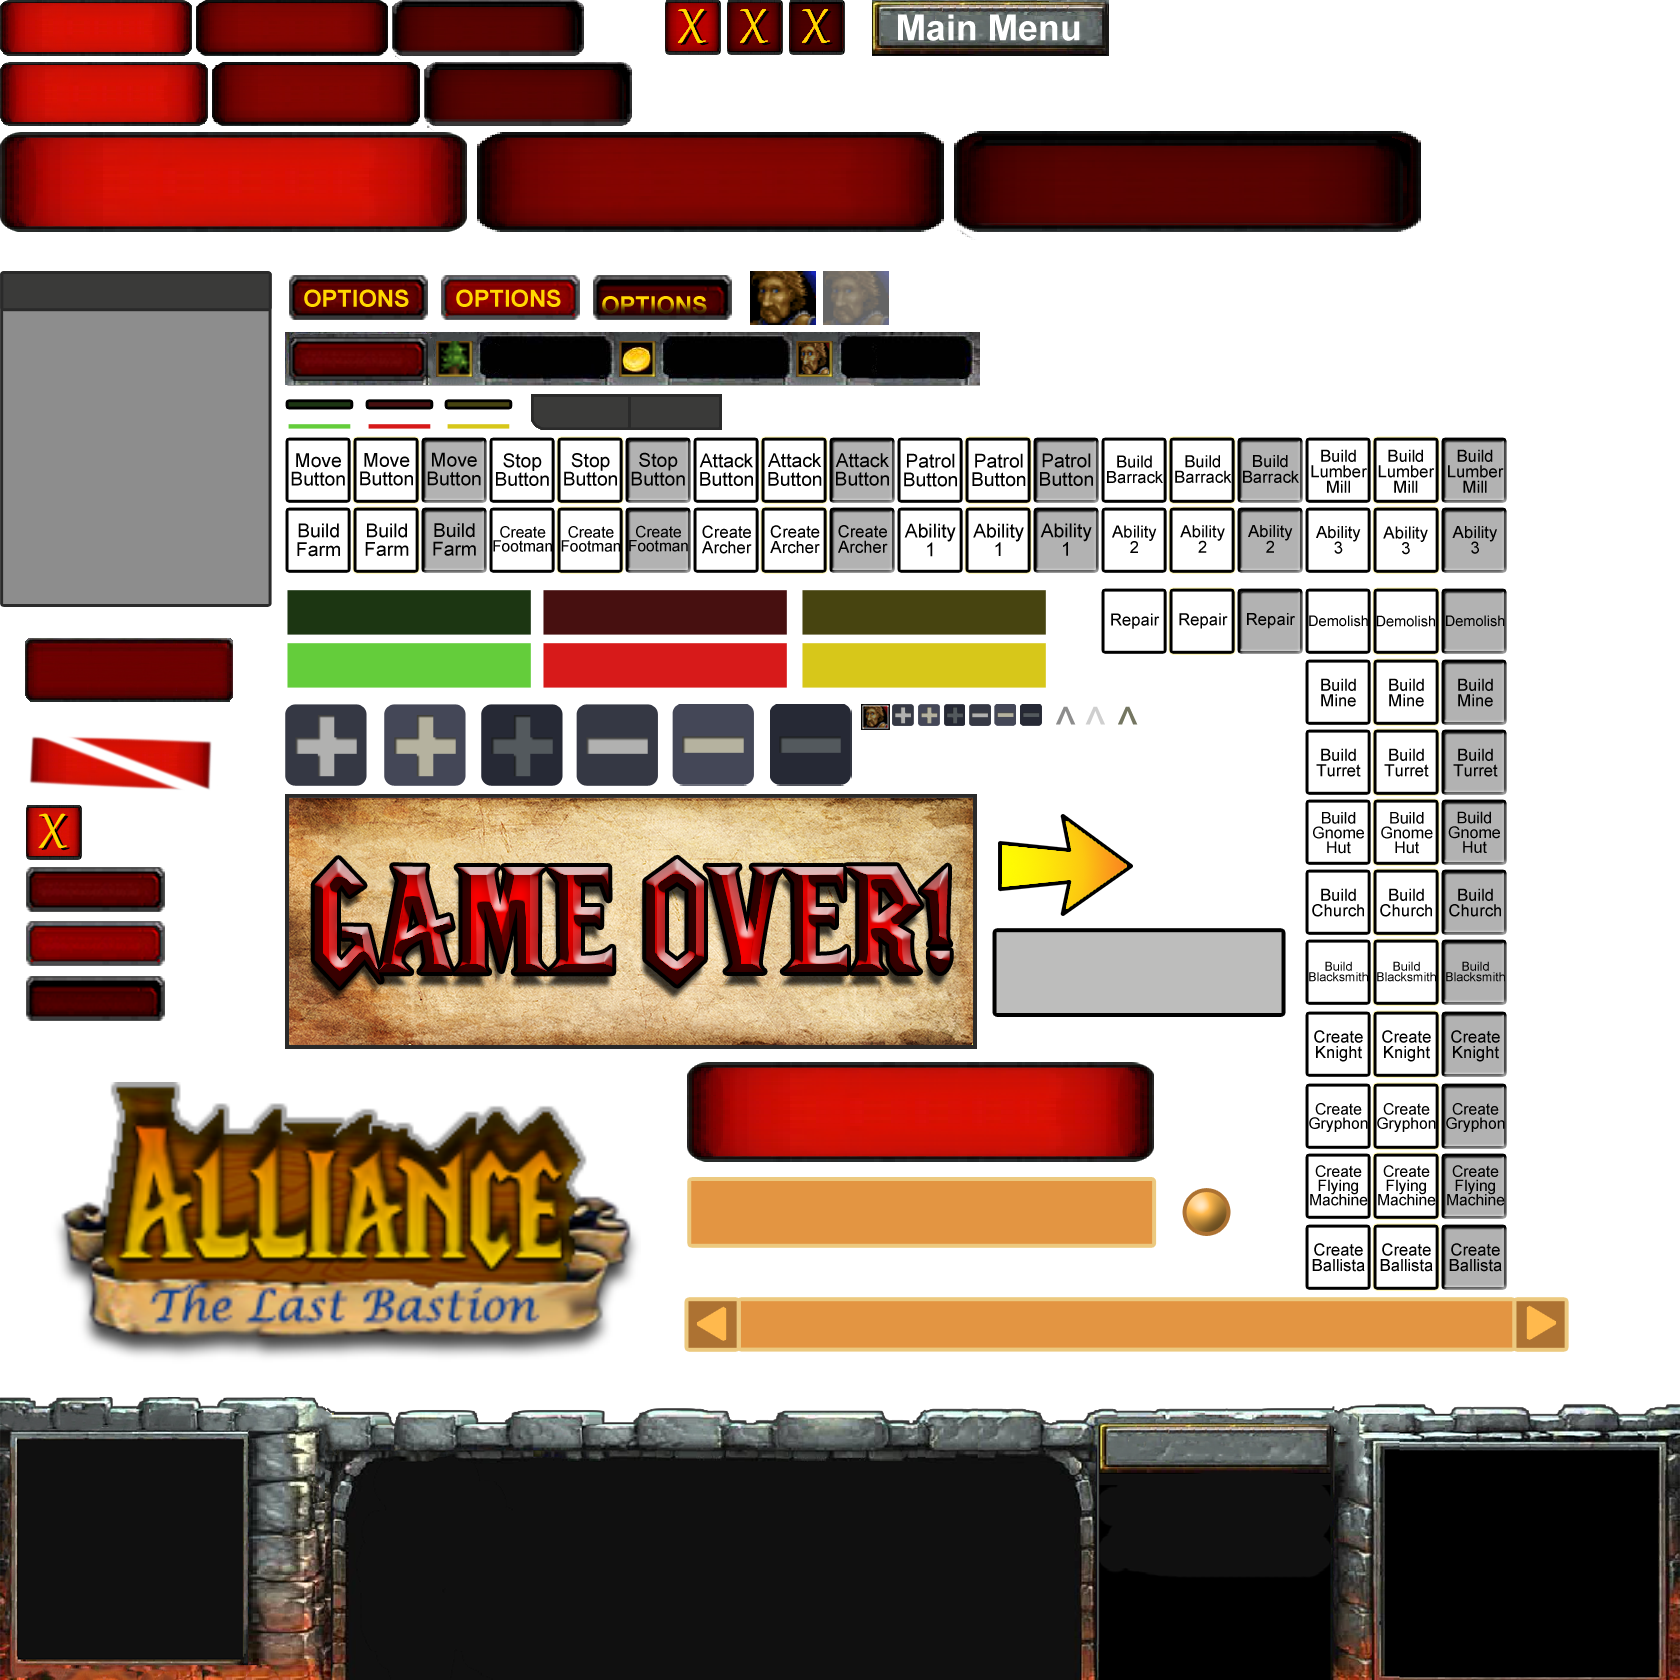
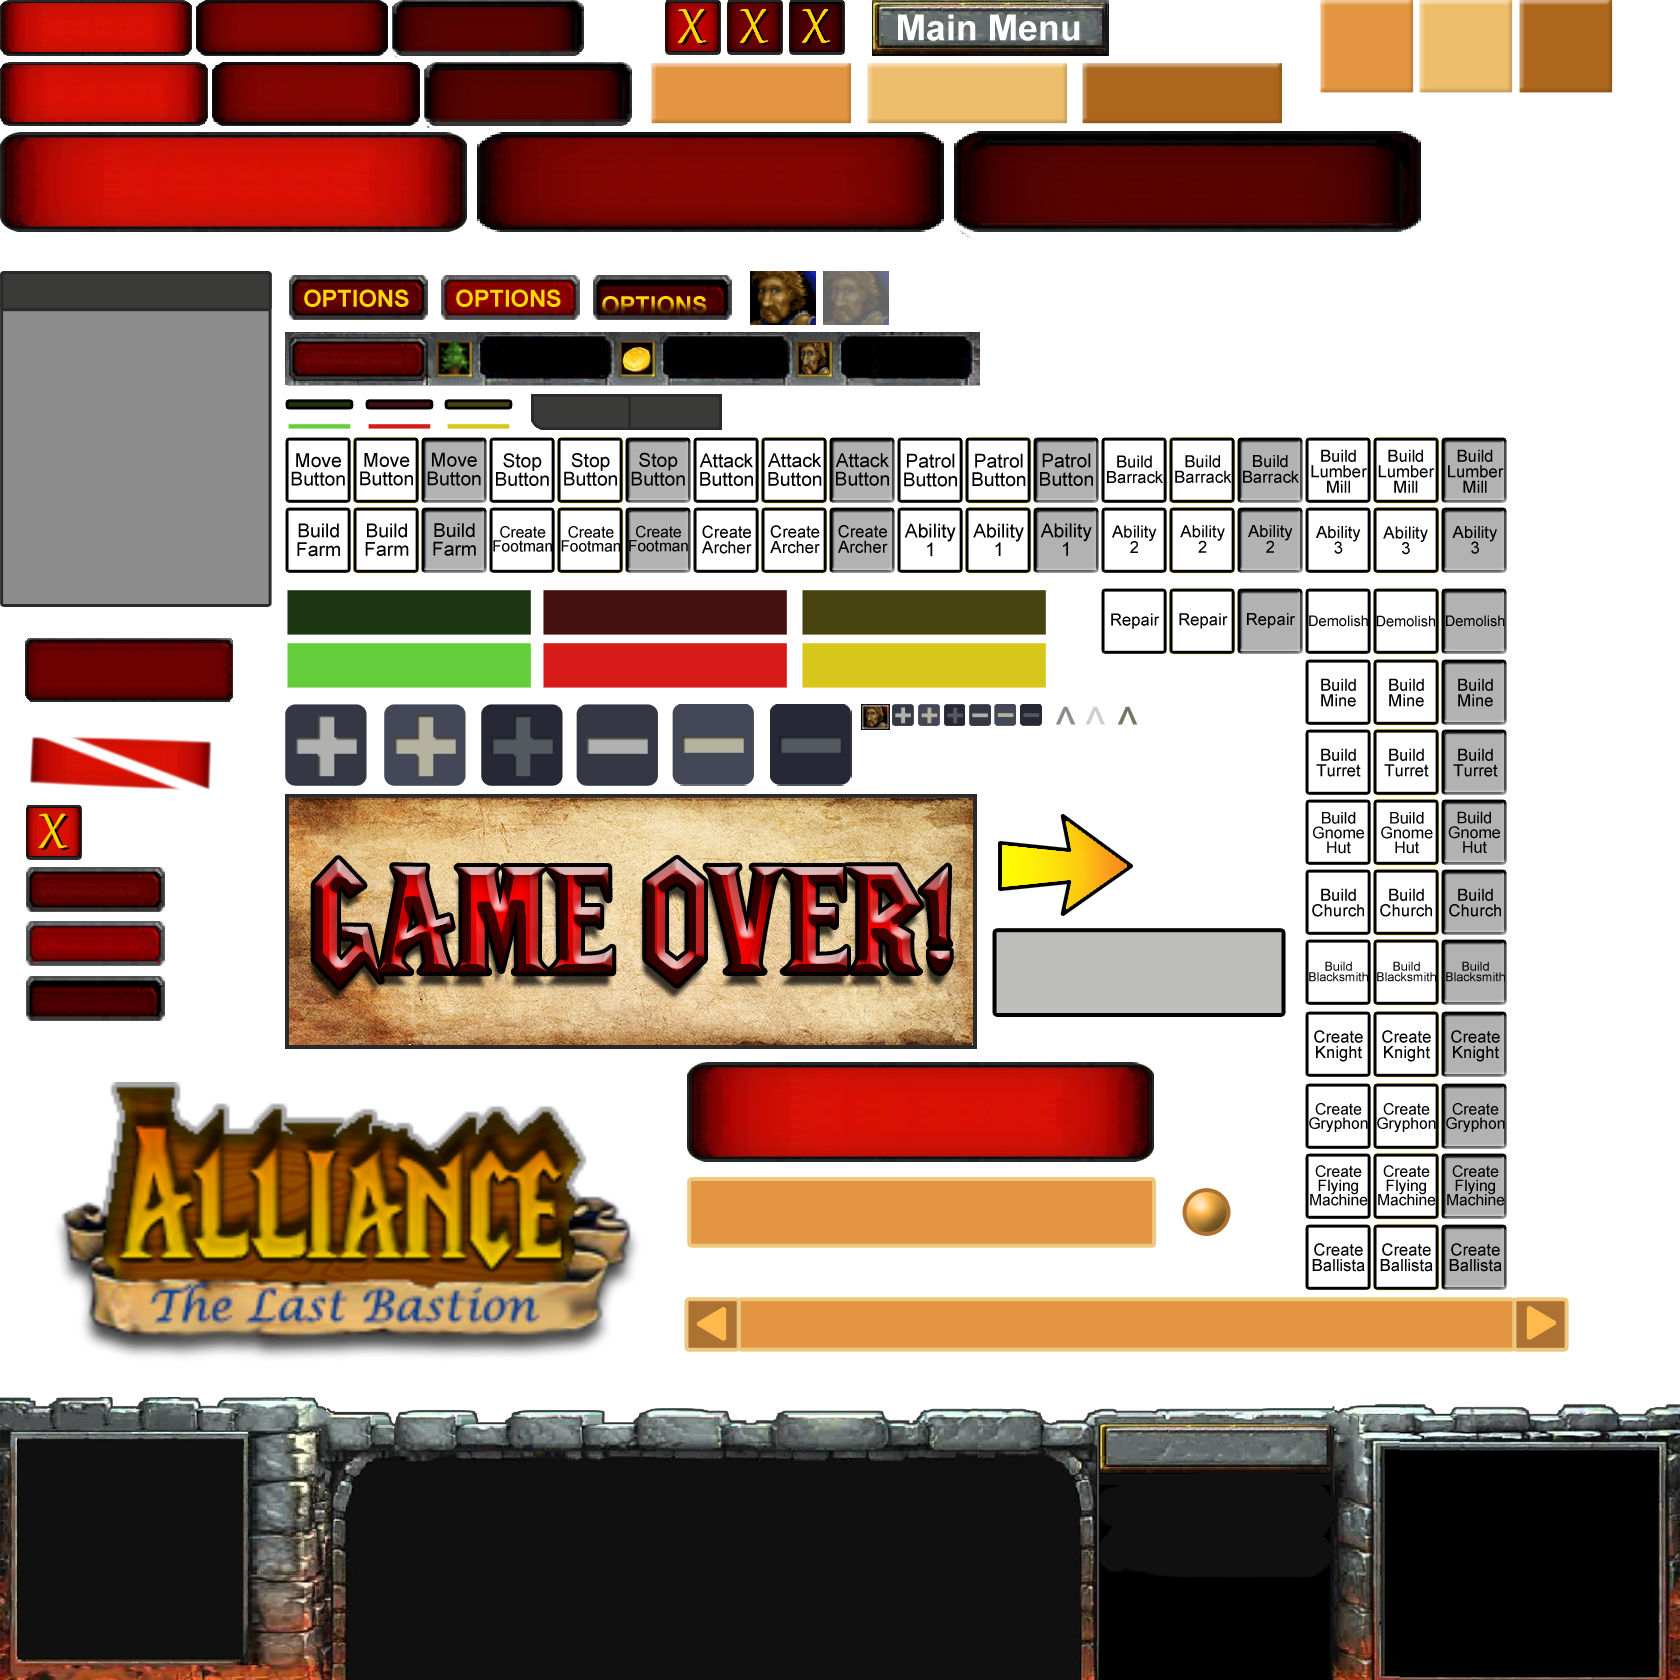
Implemented change controls menu (needs polishment)

Changed region(s): [[0.3714, 0.0, 0.9595, 0.0929]]

diff --git a/Motor2D/j1Gui.cpp b/Motor2D/j1Gui.cpp
@@ -647,6 +647,14 @@ Button* j1Gui::createButton(pugi::xml_node node, j1Module* callback, bool saveIn
 		ret->releaseAction = (actionType)node.attribute("release_action").as_int(0);
 		ret->hasReleaseAction = true;
 	}
+	pugi::xml_node hotkey = node.child("hotkey");
+	if (hotkey)
+	{
+		std::string letter = hotkey.attribute("key").as_string();
+		SDL_Scancode key = (SDL_Scancode)(*letter.c_str() - 61);
+		ret->setHotkey(key);
+		ret->displayHotkey(true, App->font->getFont(hotkey.attribute("font_id").as_int()), { 0,0,0,255 }, true);
+	}
 
 	if (saveIntoGUI)
 		Buttons.push_back(ret);
@@ -1115,5 +1123,34 @@ void j1Gui::moveElementToMouse(UI_element* element)
 			y = 0;
 		}
 		element->localPosition = { (int)(x/w_stretch), (int)(y/h_stretch) };
+	}
+}
+
+void j1Gui::assignActionButtonHotkey(uint id, SDL_Scancode newHotkey)
+{
+	if (id < inGameMenu->actionButtonsHotkeys.size())
+	{
+		inGameMenu->actionButtonsHotkeys[id] = newHotkey;
+		inGameMenu->updateActionButtons();
+
+		menu* Menu = App->uiscene->getMenu(CHANGE_HOTKEYS_MENU);
+		if (Menu != nullptr)
+		{
+			int counter = 0;
+			for (std::list<UI_element*>::iterator it_b = Menu->elements.begin(); it_b != Menu->elements.end(); it_b++)
+			{
+				if ((*it_b)->element_type == BUTTON && (*it_b)->clickAction >= 50 && (*it_b)->clickAction <= 58)
+				{				
+					if (counter == id)
+					{
+						Button* button = (Button*)(*it_b);
+						button->setHotkey(newHotkey);
+						button->displayHotkey(true, App->font->getFont(3), { 0,0,0,255 }, true);
+						break;
+					}
+					counter++;
+				}
+			}
+		}
 	}
 }

diff --git a/Motor2D/j1Input.cpp b/Motor2D/j1Input.cpp
@@ -3,6 +3,7 @@
 #include "j1App.h"
 #include "j1Input.h"
 #include "j1Window.h"
+#include "j1Gui.h"
 #include "SDL/include/SDL.h"
 
 #define MAX_KEYS 300
@@ -56,13 +57,14 @@ bool j1Input::PreUpdate()
 	BROFILER_CATEGORY("input_preupdate", Profiler::Color::BlanchedAlmond);
 	static SDL_Event event;
 	
+	wasKeyDown = SDL_SCANCODE_UNKNOWN;
 	const Uint8* keys = SDL_GetKeyboardState(NULL);
 
 	for(int i = 0; i < MAX_KEYS; ++i)
 	{
 		if(keys[i] == 1)
 		{
-			if(keyboard[i] == KEY_IDLE) keyboard[i] = KEY_DOWN;
+			if (keyboard[i] == KEY_IDLE) { keyboard[i] = KEY_DOWN; wasKeyDown = (SDL_Scancode)i; }
 			else						keyboard[i] = KEY_REPEAT;
 		}
 		else
@@ -134,6 +136,18 @@ bool j1Input::PreUpdate()
 	return true;
 }
 
+bool j1Input::Update(float dt)
+{
+	if (assignNewHotkey && wasKeyDown != SDL_SCANCODE_UNKNOWN)
+	{
+		App->gui->assignActionButtonHotkey(buttonId, wasKeyDown);
+
+		assignNewHotkey = false;
+	}
+
+	return true;
+}
+
 // Called before quitting
 bool j1Input::CleanUp()
 {
@@ -158,6 +172,27 @@ void j1Input::GetMouseMotion(int& x, int& y)
 {
 	x = mouse_motion_x;
 	y = mouse_motion_y;
+}
+
+void j1Input::readHotkey(uint buttonId)
+{
+	if (!assignNewHotkey)
+	{
+		this->buttonId = buttonId;
+		assignNewHotkey = true;
+	}
+	else
+		assignNewHotkey = false;
+}
+
+bool j1Input::isReadingHotkey() const
+{
+	return assignNewHotkey;
+}
+
+void j1Input::stopReadingHotkey()
+{
+	assignNewHotkey = false;
 }
 
 void j1Input::StartTextInput()

diff --git a/Motor2D/UI_Button.cpp b/Motor2D/UI_Button.cpp
@@ -39,39 +39,40 @@ void Button::BlitElement()
 	}
 }
 
-void Button::displayHotkey(bool display, _TTF_Font* font)
+void Button::displayHotkey(bool display, _TTF_Font* font, SDL_Color color, bool atCenter)
 {
 	displayingHotkey = display;
 
 	if (display = true && font != nullptr && Hotkey != 0)
 	{
 		if (hotkey_text != nullptr)
+		{
+			childs.clear();
 			RELEASE(hotkey_text);
+		}
 		
 		std::string text;
 		text = (char)(Hotkey + 61);
 
-		hotkey_text = new Text(text, 0, 0, font, { 255,0,0,255 }, nullptr);
-		iPoint position = { localPosition.x + section.w - hotkey_text->section.w / 2, localPosition.y + section.h - hotkey_text->section.h / 2 };
-		hotkey_text->localPosition = position;
+		hotkey_text = new Text(text, 0, 0, font, color, nullptr);
+		appendChild(hotkey_text, true);
+		if (!atCenter)
+			hotkey_text->localPosition = { section.w - hotkey_text->section.w / 2, section.h - hotkey_text->section.h / 2 };
 	}
 }
 
 void Button::setHotkey(SDL_Scancode hotkey)
 {
 	Hotkey = hotkey;
+	if (hotkey_text != nullptr)
+	{
+		std::string text;
+		text = (char)(Hotkey + 61);
+		hotkey_text->setText(text);
+	}
 }
 
 SDL_Scancode Button::getHotkey() const
 {
 	return Hotkey;
-}
-
-void Button::updatedPosition()
-{
-	if (hotkey_text != nullptr)
-	{
-		iPoint position = { localPosition.x + section.w - hotkey_text->section.w / 2, localPosition.y + section.h - hotkey_text->section.h / 2 };
-		hotkey_text->localPosition = position;
-	}
 }

diff --git a/Motor2D/UI_IngameMenu.cpp b/Motor2D/UI_IngameMenu.cpp
@@ -20,6 +20,16 @@ buttons_offset({buttons_offsetX, buttons_offsetY})
 	window = new Window(texture, x, y, section, callback);
 	workers_title = new Text("Workers:", 1480, 815, App->font->fonts.front(), { 0,0,0,255 }, nullptr);
 	workers = new Text("", 1495, 865, App->font->fonts.front(), { 0,0,0,255 }, nullptr);
+
+	actionButtonsHotkeys.push_back(DEFAULT_HOTKEY_1);
+	actionButtonsHotkeys.push_back(DEFAULT_HOTKEY_2);
+	actionButtonsHotkeys.push_back(DEFAULT_HOTKEY_3);
+	actionButtonsHotkeys.push_back(DEFAULT_HOTKEY_4);
+	actionButtonsHotkeys.push_back(DEFAULT_HOTKEY_5);
+	actionButtonsHotkeys.push_back(DEFAULT_HOTKEY_6);
+	actionButtonsHotkeys.push_back(DEFAULT_HOTKEY_7);
+	actionButtonsHotkeys.push_back(DEFAULT_HOTKEY_8);
+	actionButtonsHotkeys.push_back(DEFAULT_HOTKEY_9);
 }
 
 IngameMenu::~IngameMenu()
@@ -53,6 +63,7 @@ void IngameMenu::updateActionButtons()
 		actionButtons = App->gui->activateActionButtons(empty_vector);
 	}
 
+	int counter = 0;
 	int counterX = 0;
 	int counterY = 0;
 	int extraYvalue = 0;
@@ -64,8 +75,9 @@ void IngameMenu::updateActionButtons()
 		(*it_b)->localPosition.x = firstButton_pos.x + (buttons_offset.x*counterX);
 		(*it_b)->localPosition.y = firstButton_pos.y + (buttons_offset.y*counterY) + extraYvalue;
 		(*it_b)->active = true;
-		(*it_b)->updatedPosition();
+		(*it_b)->setHotkey(actionButtonsHotkeys[counter]);
 		counterX++;
+		counter++;
 		if (counterX == 3)
 		{
 			counterY++;

diff --git a/Motor2D/j1ActionsController.cpp b/Motor2D/j1ActionsController.cpp
@@ -236,6 +236,9 @@ bool j1ActionsController::Update(float dt)
 				App->uiscene->toggleMenu(false, CREDITS_MENU);
 				App->uiscene->toggleMenu(false, SETTINGS_MENU);
 			}
+
+			if (App->input->isReadingHotkey())
+				App->input->stopReadingHotkey();
 			
 			doingAction = false;
 			break;
@@ -282,6 +285,43 @@ bool j1ActionsController::Update(float dt)
 			App->entitycontroller->addHero(iPoint(1950, 2100), HERO_2);
 			App->uiscene->toggleMenu(false, HERO_SELECTION_MENU);
 			App->resumeGame();
+			doingAction = false;
+			break;
+
+		case CHANGE_KEY_1:
+			App->input->readHotkey(0);
+			doingAction = false;
+			break;
+		case CHANGE_KEY_2:
+			App->input->readHotkey(1);
+			doingAction = false;
+			break;
+		case CHANGE_KEY_3:
+			App->input->readHotkey(2);
+			doingAction = false;
+			break;
+		case CHANGE_KEY_4:
+			App->input->readHotkey(3);
+			doingAction = false;
+			break;
+		case CHANGE_KEY_5:
+			App->input->readHotkey(4);
+			doingAction = false;
+			break;
+		case CHANGE_KEY_6:
+			App->input->readHotkey(5);
+			doingAction = false;
+			break;
+		case CHANGE_KEY_7:
+			App->input->readHotkey(6);
+			doingAction = false;
+			break;
+		case CHANGE_KEY_8:
+			App->input->readHotkey(7);
+			doingAction = false;
+			break;
+		case CHANGE_KEY_9:
+			App->input->readHotkey(8);
 			doingAction = false;
 			break;
 		}

diff --git a/Motor2D/j1Input.h b/Motor2D/j1Input.h
@@ -2,6 +2,7 @@
 #define __j1INPUT_H__
 
 #include "j1Module.h"
+#include "j1Window.h"
 
 //#define NUM_KEYS 352
 #define NUM_MOUSE_BUTTONS 5
@@ -44,6 +45,8 @@ public:
 	// Called each loop iteration
 	bool PreUpdate();
 
+	bool Update(float dt);
+
 	// Called before quitting
 	bool CleanUp();
 
@@ -65,6 +68,10 @@ public:
 	void GetMousePosition(int &x, int &y);
 	void GetMouseMotion(int& x, int& y);
 
+	void readHotkey(uint buttonId);
+	bool isReadingHotkey() const;
+	void stopReadingHotkey();
+
 private:
 	bool		windowEvents[WE_COUNT];
 	j1KeyState*	keyboard=nullptr;
@@ -73,6 +80,10 @@ private:
 	int			mouse_motion_y;
 	int			mouse_x;
 	int			mouse_y;
+
+	SDL_Scancode wasKeyDown = SDL_SCANCODE_UNKNOWN;
+	bool assignNewHotkey = false;
+	uint buttonId = 0;
 };
 
 #endif // __j1INPUT_H__

diff --git a/Motor2D/UI_IngameMenu.h b/Motor2D/UI_IngameMenu.h
@@ -3,6 +3,17 @@
 
 #include "UI_element.h"
 
+#define MAX_ACTION_BUTONS 9
+#define DEFAULT_HOTKEY_1 SDL_SCANCODE_Q
+#define DEFAULT_HOTKEY_2 SDL_SCANCODE_W
+#define DEFAULT_HOTKEY_3 SDL_SCANCODE_E
+#define DEFAULT_HOTKEY_4 SDL_SCANCODE_A
+#define DEFAULT_HOTKEY_5 SDL_SCANCODE_S
+#define DEFAULT_HOTKEY_6 SDL_SCANCODE_D
+#define DEFAULT_HOTKEY_7 SDL_SCANCODE_Z
+#define DEFAULT_HOTKEY_8 SDL_SCANCODE_X
+#define DEFAULT_HOTKEY_9 SDL_SCANCODE_C
+
 class Window;
 class Button;
 class Text;
@@ -38,6 +49,8 @@ public:
 	Text* workers_title = nullptr;
 	Text* workers = nullptr;
 	std::list<Button*> actionButtons; //Loading the activated buttons
+
+	std::vector<SDL_Scancode> actionButtonsHotkeys;
 
 };
 

diff --git a/Motor2D/UI_Button.h b/Motor2D/UI_Button.h
@@ -19,10 +19,9 @@ public:
 	{}
 
 	void BlitElement();
-	void displayHotkey(bool display, _TTF_Font* font = nullptr);
+	void displayHotkey(bool display, _TTF_Font* font = nullptr, SDL_Color color = { 255,0,0,255 }, bool atCenter = false);
 	void setHotkey(SDL_Scancode hotkey);
 	SDL_Scancode getHotkey() const;
-	void updatedPosition();
 
 public:
 

diff --git a/Motor2D/j1ActionsController.h b/Motor2D/j1ActionsController.h
@@ -48,7 +48,17 @@ enum actionType
 	PAUSE,
 	START_SCENE,
 	CHOOSE_MAGE,
-	CHOOSE_PALADIN
+	CHOOSE_PALADIN,
+
+	CHANGE_KEY_1 = 50,
+	CHANGE_KEY_2,
+	CHANGE_KEY_3,
+	CHANGE_KEY_4,
+	CHANGE_KEY_5,
+	CHANGE_KEY_6,
+	CHANGE_KEY_7,
+	CHANGE_KEY_8,
+	CHANGE_KEY_9
 };
 
 class j1ActionsController : public j1Module

diff --git a/Motor2D/j1UIScene.cpp b/Motor2D/j1UIScene.cpp
@@ -94,11 +94,6 @@ bool j1UIScene::Start()
 bool j1UIScene::Update(float dt)
 {
 
-	if (App->input->GetKey(SDL_SCANCODE_U) == KEY_DOWN)
-		App->pauseGame();
-	if (App->input->GetKey(SDL_SCANCODE_J) == KEY_DOWN)
-		App->resumeGame();
-
 	return true;
 }
 

diff --git a/Motor2D/j1Gui.h b/Motor2D/j1Gui.h
@@ -140,6 +140,8 @@ public:
 
 	void moveElementToMouse(UI_element* element);
 
+	void assignActionButtonHotkey(uint id, SDL_Scancode newHotkey);
+
 public:
 
 	SDL_Texture* atlas = nullptr;

diff --git a/Motor2D/UI_element.h b/Motor2D/UI_element.h
@@ -8,7 +8,6 @@
 #include "j1Gui.h"
 #include "j1Input.h"
 #include "j1Window.h"
-#include "j1App.h"
 #include "j1ActionsController.h"
 #include "j1UIScene.h"
 
